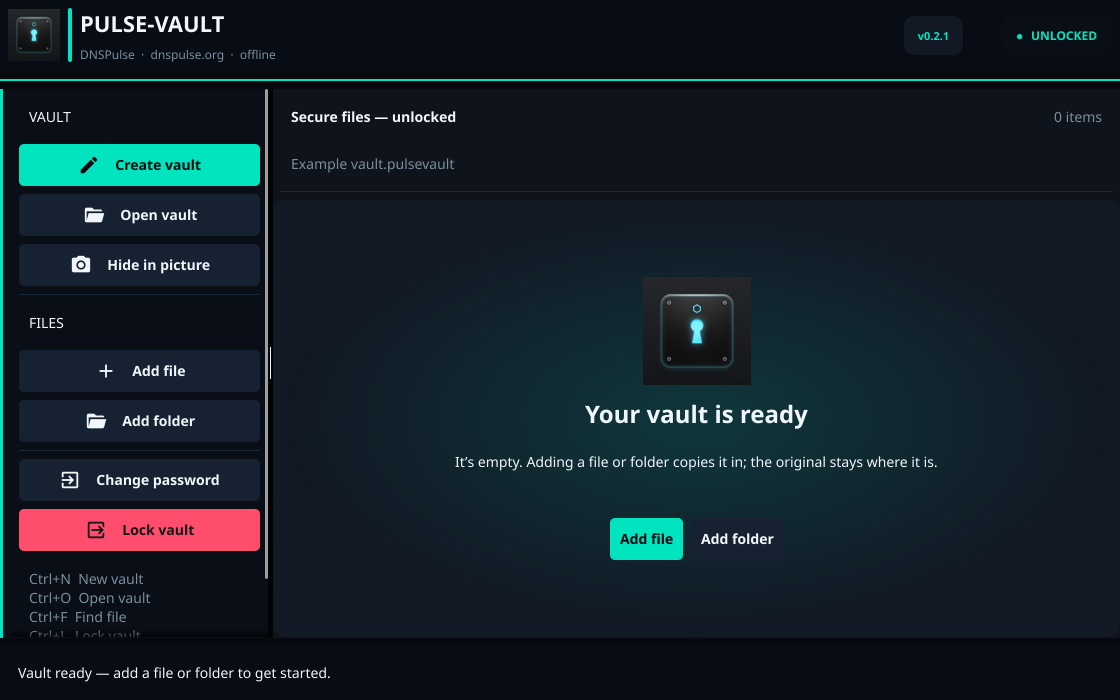
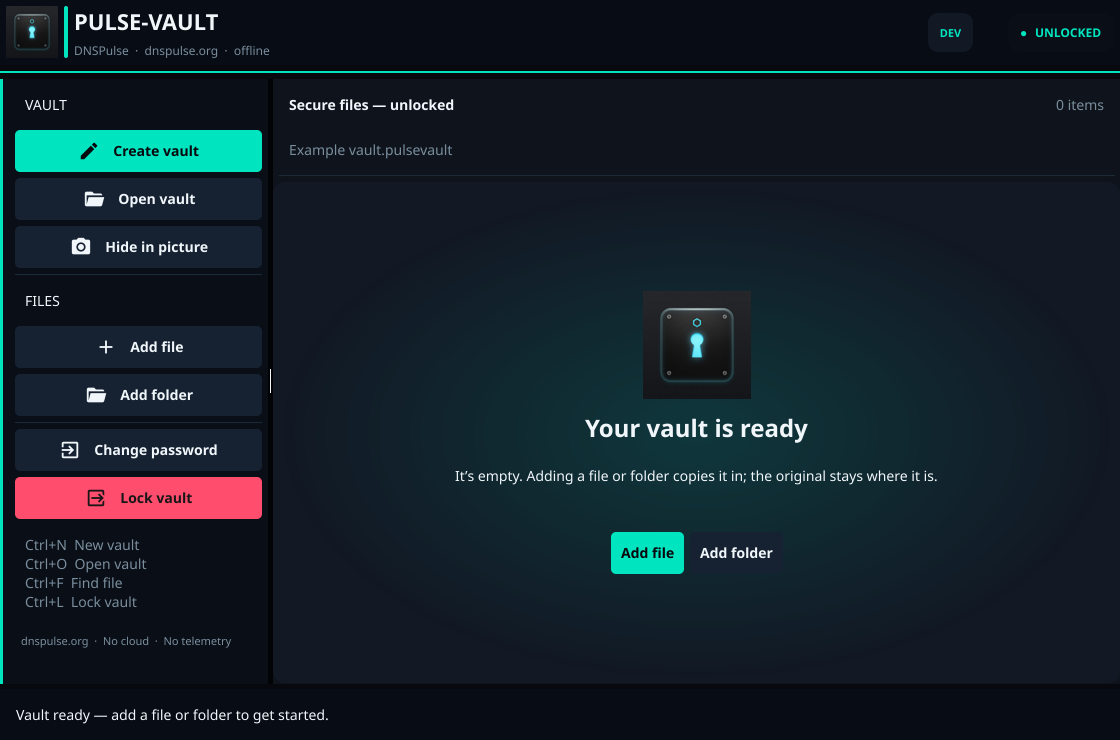
Fix compact GUI clipping and refresh QA workflows

diff --git a/gui-go/internal/ui/app_regression_test.go b/gui-go/internal/ui/app_regression_test.go
@@ -106,7 +106,7 @@ func TestWindowMinimumSizeKeepsWorkspaceUsable(t *testing.T) {
 	ui.v = v
 	ui.setUnlockedUI("example.pulsevault")
 	minimum := ui.root.MinSize()
-	if minimum.Width < 640 || minimum.Height < 380 {
+	if minimum.Width < 640 || minimum.Height < 460 {
 		t.Fatalf("window minimum %v is too small for both panes and persistent controls", minimum)
 	}
 	ui.win.Resize(minimum)
@@ -303,26 +303,43 @@ func TestLongFileNamesStayInsideNarrowRows(t *testing.T) {
 	}
 	var name *widget.Label
 	var encrypted *canvas.Text
-	for _, child := range row.Objects {
-		switch child := child.(type) {
+	var markerPosition fyne.Position
+	var markerSize fyne.Size
+	var visit func(fyne.CanvasObject, fyne.Position)
+	visit = func(object fyne.CanvasObject, parent fyne.Position) {
+		position := parent.Add(object.Position())
+		switch child := object.(type) {
 		case *widget.Label:
 			name = child
 		case *canvas.Text:
 			if child.Text == "ENCRYPTED" {
 				encrypted = child
+				markerPosition = position
+				markerSize = child.Size()
+			}
+		case *fyne.Container:
+			for _, nested := range child.Objects {
+				visit(nested, position)
 			}
 		}
 	}
+	visit(row, fyne.NewPos(0, 0))
 	if name == nil || encrypted == nil {
 		t.Fatal("file row should contain a filename and encrypted marker")
 	}
 	name.SetText(strings.Repeat("very-long-project-name-", 20) + ".csv")
 	row.Resize(fyne.NewSize(220, 42))
 	row.Refresh()
+	markerPosition = fyne.NewPos(0, 0)
+	markerSize = fyne.NewSize(0, 0)
+	visit(row, fyne.NewPos(0, 0))
 	if name.Truncation != fyne.TextTruncateEllipsis || name.Wrapping != fyne.TextWrapOff {
 		t.Fatal("long file names should truncate on one line")
 	}
-	if name.Position().X+name.Size().Width > encrypted.Position().X+1 {
-		t.Fatalf("filename overlaps the encrypted marker: name=%v+%v marker=%v+%v", name.Position(), name.Size(), encrypted.Position(), encrypted.Size())
+	if name.Position().X+name.Size().Width > markerPosition.X+1 {
+		t.Fatalf("filename overlaps the encrypted marker: name=%v+%v marker=%v+%v", name.Position(), name.Size(), markerPosition, markerSize)
+	}
+	if markerPosition.X+markerSize.Width > row.Size().Width-12 {
+		t.Fatalf("encrypted marker needs a visible right gutter: row=%v marker=%v+%v", row.Size(), markerPosition, markerSize)
 	}
 }

diff --git a/gui-go/internal/ui/app.go b/gui-go/internal/ui/app.go
@@ -93,7 +93,7 @@ func Run(a fyne.App) {
 	ui.win = a.NewWindow(AppTitle + "  ·  " + version.Version)
 	ui.win.SetIcon(mark)
 	ui.win.SetPadded(false)
-	ui.win.Resize(fyne.NewSize(1120, 700))
+	ui.win.Resize(fyne.NewSize(1120, 740))
 	ui.win.SetFixedSize(false)
 	ui.win.SetMaster()
 	ui.build()
@@ -113,7 +113,11 @@ func (ui *App) build() {
 	ui.brandSub = canvas.NewText("DNSPulse  ·  dnspulse.org  ·  offline", colMuted)
 	ui.brandSub.TextSize = 12
 
-	ui.versionChip = canvas.NewText("  v"+version.Version+"  ", colPrimary)
+	versionLabel := "v" + version.Version
+	if version.Version == "dev" {
+		versionLabel = "DEV"
+	}
+	ui.versionChip = canvas.NewText("  "+versionLabel+"  ", colPrimary)
 	ui.versionChip.TextSize = 11
 	ui.versionChip.TextStyle = fyne.TextStyle{Bold: true}
 
@@ -323,7 +327,13 @@ func newFileListRow() fyne.CanvasObject {
 	name.Truncation = fyne.TextTruncateEllipsis
 	tag := canvas.NewText("ENCRYPTED", colPrimary)
 	tag.TextSize = 10
-	return container.NewBorder(nil, nil, icon, tag, name)
+	// Keep the state marker away from the window edge. Without a trailing
+	// gutter, Fyne's border layout places the marker flush against the viewport
+	// and its final letters look clipped in compact windows.
+	trailingGutter := canvas.NewRectangle(color.Transparent)
+	trailingGutter.SetMinSize(fyne.NewSize(12, 1))
+	trailing := container.NewHBox(tag, trailingGutter)
+	return container.NewBorder(nil, nil, icon, trailing, name)
 }
 
 func (ui *App) bindShortcuts() {

diff --git a/gui-go/internal/ui/theme.go b/gui-go/internal/ui/theme.go
@@ -97,7 +97,7 @@ func (t *PulseTheme) Icon(name fyne.ThemeIconName) fyne.Resource {
 func (t *PulseTheme) Size(name fyne.ThemeSizeName) float32 {
 	switch name {
 	case theme.SizeNamePadding:
-		return 8
+		return 6
 	case theme.SizeNameInnerPadding:
 		return 10
 	case theme.SizeNameText:

diff --git a/gui-go/internal/ui/header.go b/gui-go/internal/ui/header.go
@@ -10,7 +10,7 @@ const (
 	headerSideGap    float32 = 16
 	navTargetWidth   float32 = 228
 	shellMinWidth    float32 = 640
-	shellMinHeight   float32 = 240
+	shellMinHeight   float32 = 328
 	stageBodyReserve float32 = 72
 )
 

diff --git a/gui-go/README.md b/gui-go/README.md
@@ -14,7 +14,7 @@ For everyday use, start with the [desktop walkthrough](../docs/TWO_MINUTE_GUIDE.
 - Append a vault to supported image/video media. This preserves the media prefix but is not steganography.
 - Cancelable long-running GUI work, with progress and a temporary-space estimate before add or password rotation.
 
-The desktop window opens at 1120×700 and keeps a minimum size of about 640×392 so the navigation, file search, and workspace remain usable together. The layout tightens its header and collapses secondary context when the window is short.
+The desktop window opens at 1120×740 and keeps a minimum size of about 640×480 so the navigation, file search, and workspace remain usable together. The layout tightens its header and collapses secondary context when the window is short.
 
 New vaults use the V6 authenticated stream format. Folder trees use the V7 container marker and V6 streams; V5 streams remain readable. See [the format guide](../docs/VAULT_FORMAT.md).
 

diff --git a/docs/TWO_MINUTE_GUIDE.md b/docs/TWO_MINUTE_GUIDE.md
@@ -4,7 +4,7 @@ The first run takes about two minutes with a small test file, after the desktop 
 
 Get the app from [GitHub Releases](https://github.com/Z3r0s/Pulse-Vault/releases). Choose the GUI file for your operating system; if there is no matching download, use the [install guide](../INSTALL.md). No account or network connection is needed to use the app after installation.
 
-![Pulse-Vault desktop app at its default 1120 by 700 window size](assets/pulse-vault-desktop.png)
+![Pulse-Vault desktop app at its default 1120 by 740 window size](assets/pulse-vault-desktop.png)
 
 [Open the same screen at full 1440p resolution (2560×1440)](assets/pulse-vault-desktop-1440p.png).
 
